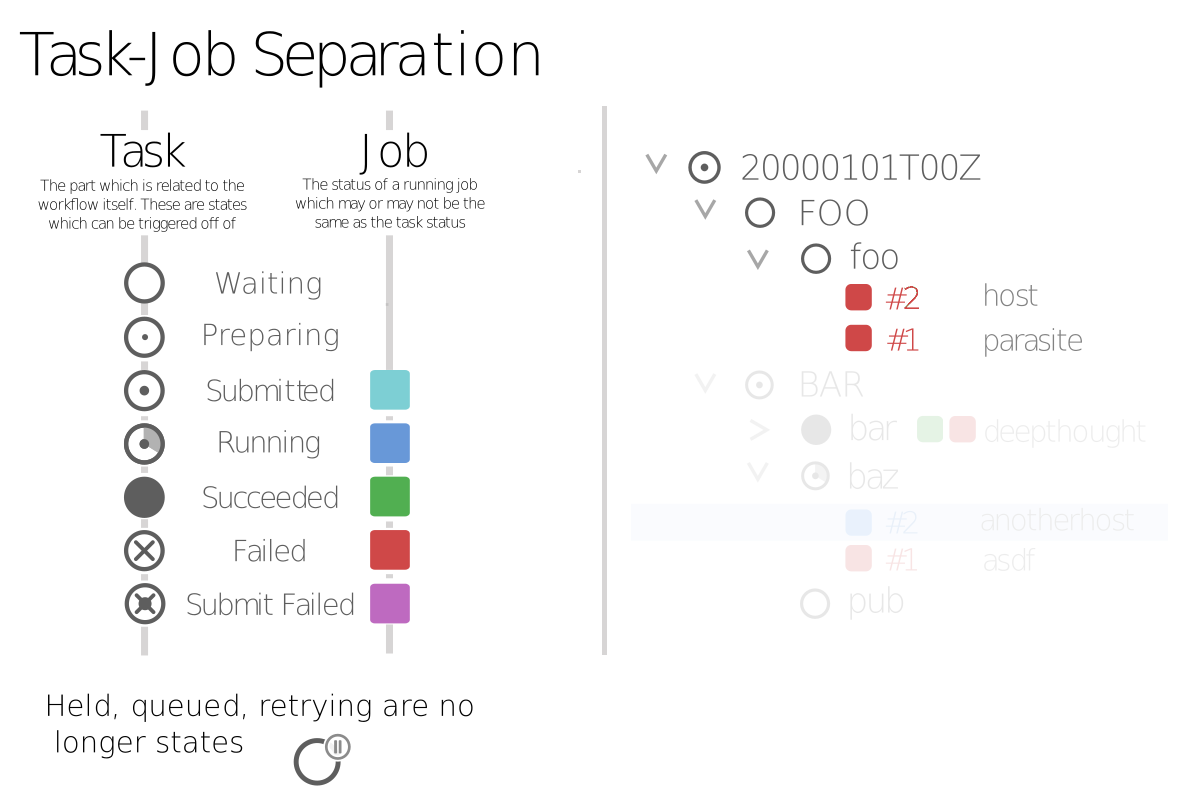
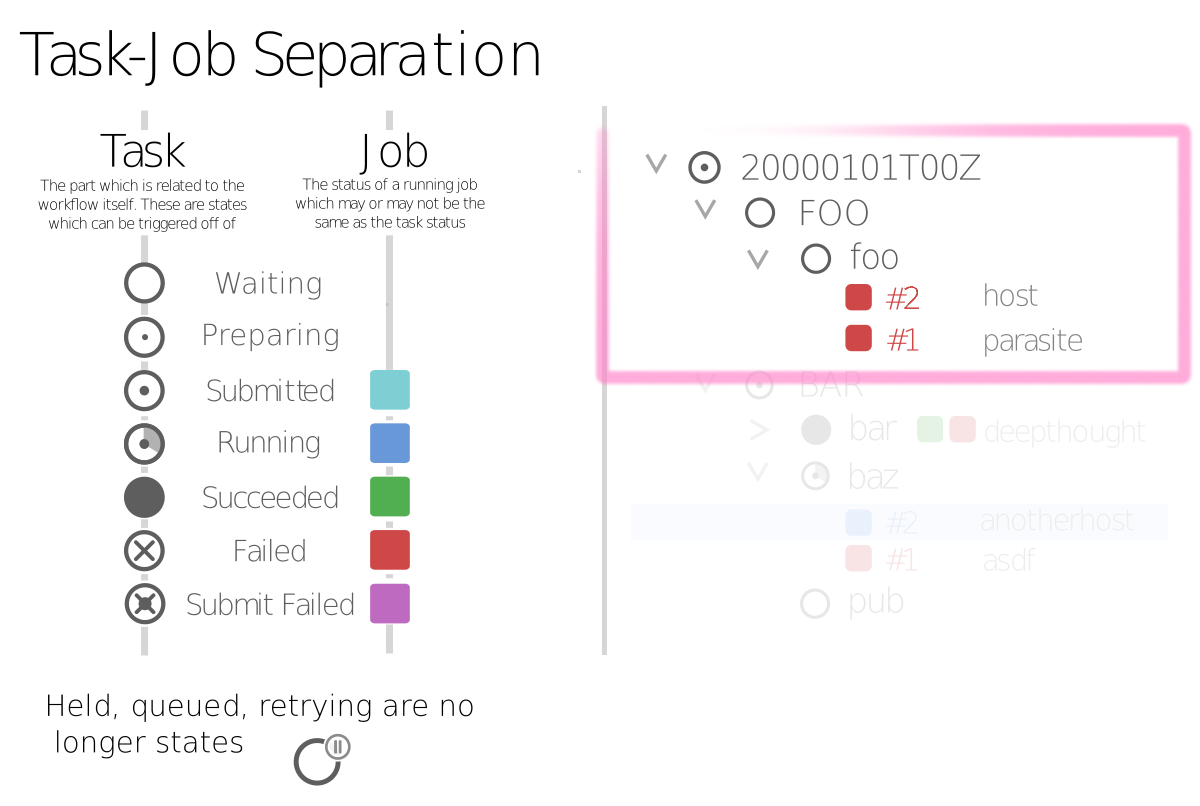
Added GUI screenshots.

Changed region(s): [[0.4933, 0.1551, 1.0, 0.4963]]

diff --git a/Altair-SC19-Denver/index.html b/Altair-SC19-Denver/index.html
@@ -97,7 +97,7 @@ src="js/data/running_workflows_data.js"></script>
                     src="media/icons/hand.svg"
                     />
                 </td><td>
-                    What's new? Cylc 8!
+                    What's new? (Cylc 8)
                 </td>
             </tr>
             <tr>
@@ -107,7 +107,7 @@ src="js/data/running_workflows_data.js"></script>
                     src="media/icons/hand.svg"
                     />
                 </td><td>
-                    Cylc 8 Demo
+                    Cylc 8 preview demo
                 </td>
             </tr>
         </table>
@@ -654,7 +654,31 @@ infininte_animation.onload = function() {
           </td>
         </tr>
       </table>
-    </div>
+	 </div>
+
+	 <div
+			id="gcylc-screenshots"
+			class="step full vflex"
+			>
+			<div
+				 style="width:100%; height:100%;
+				 background:url(media/screenshots/gcylc-graph-dot.png);
+				 background-size:auto 100%"
+				 >
+				 <embed
+				 id="gcylc-tree"
+				 class="flexgrow substep flash"
+				 src="media/screenshots/gcylc-tree.png"
+				 style="height:100%;"
+				 />
+				 <embed
+					id="cylc-8-mockup"
+					class="flexgrow substep flash"
+					src="media/compound-visuals/cylc-8-mockup.png"
+					style="height:100%;"
+					/>
+			 </div>
+		</div>
 
     <div
       id="basic-configuration"
@@ -1203,7 +1227,81 @@ infininte_animation.onload = function() {
 			 src="media/decorative/cylc8-ui-mobile.png"
        style="height:100%"
 			 />
- </div>
+</div>
+
+
+    <div
+      id="fin"
+      class="step"
+    >
+      <p
+        style="font-size: 1.5em;"
+      >
+        Questions?
+      </p>
+      <table
+        class="iconlist"
+      >
+        <tr>
+          <td>
+            <img
+              src="media/icons/web.svg"
+              alt="website"
+              width="50"
+            />
+          </td><td>
+            <a class="button" href="https://cylc.org">
+              cylc.org
+            </a>
+          </td>
+        </tr>
+        <tr>
+          <td>
+            <!-- see https://github.com/logos for licence and details -->
+            <img
+              src="media/external-logos/github-logo.png"
+              alt="github"
+              width="50"
+            />
+          </td><td>
+            <a class="button" href="https://github.com/cylc/cylc-flow">
+              github.com/cylc
+            </a>
+          </td>
+        </tr>
+        <tr>
+          <td>
+            <!--
+              discourse logo (GPL)
+              https://github.com/discourse/discourse/blob/master/LICENSE.txt
+            -->
+            <img
+              src="media/external-logos/discourse-logo-no-text.png"
+              alt="discourse"
+              width="50"
+            />
+          </td><td>
+            <a class="button" href="https://cylc.discourse.group/">
+              cylc.discourse.group
+            </a>
+          </td>
+        </tr>
+        <tr>
+          <td>
+            <img
+              src="media/icons/mail.svg"
+              alt="mail"
+              width="50"
+            />
+          </td><td>
+            <a class="button" href="mailto:hilary.oliver@niwa.co.nz">
+              hilary.oliver@niwa.co.nz
+            </a>
+          </td>
+        </tr>
+
+      </table>
+    </div>
 
 
 </div>

diff --git a/Altair-SC19-Denver-Booth/index.html b/Altair-SC19-Denver-Booth/index.html
@@ -435,10 +435,35 @@
               <em>Open Source</em> GPLv3
           </td>
         </tr>
-
-
       </table>
     </div>
+
+	 <div
+			id="gcylc-screenshots"
+			class="step full vflex"
+			>
+			<div
+				 style="width:100%; height:100%;
+				 background:url(media/screenshots/gcylc-graph-dot.png);
+				 background-size:100% 100%"
+				 >
+				 <embed
+				 id="gcylc-tree"
+				 class="flexgrow substep flash"
+				 src="media/screenshots/gcylc-tree.png"
+				 style="height:100%; width:100%"
+				 />
+				 <embed
+					id="cylc-8-mockup"
+					class="flexgrow substep flash"
+					src="media/compound-visuals/cylc-8-mockup.png"
+					style="height:100%; width:100%"
+					/>
+			 </div>
+		</div>
+
+
+
 
     <div
       id="cylc-architecture"
@@ -500,6 +525,7 @@
       </div>
   </div>
 
+	<!-- clicking on slides doesn't work properly?
     <div
         id="zoom-out"
         class="step full"
@@ -508,6 +534,7 @@
 				data-rel-y="0.5h"
         >
     </div>
+		-->
 
 
   </div>

diff --git a/Altair-SC19-Denver-Booth/js/impress.js b/Altair-SC19-Denver-Booth/js/impress.js
@@ -3146,7 +3146,8 @@
 /* global window, document */
 ( function( document, window ) {
     "use strict";
-    var timeout = 3;
+    // HJO var timeout = 3;
+    var timeout = 10;
     var timeoutHandle;
 
     var hide = function() {
